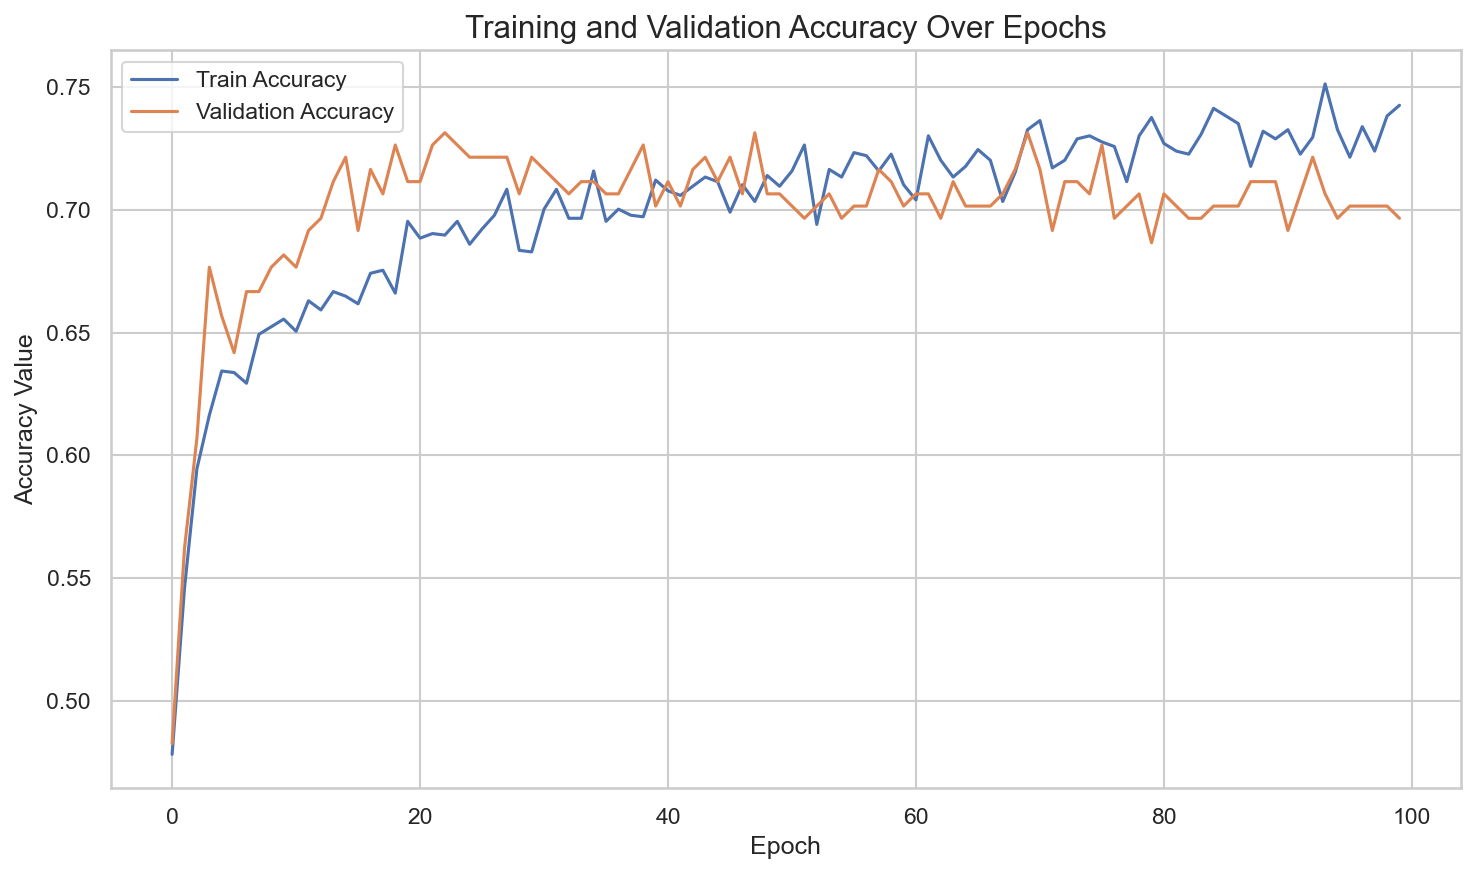
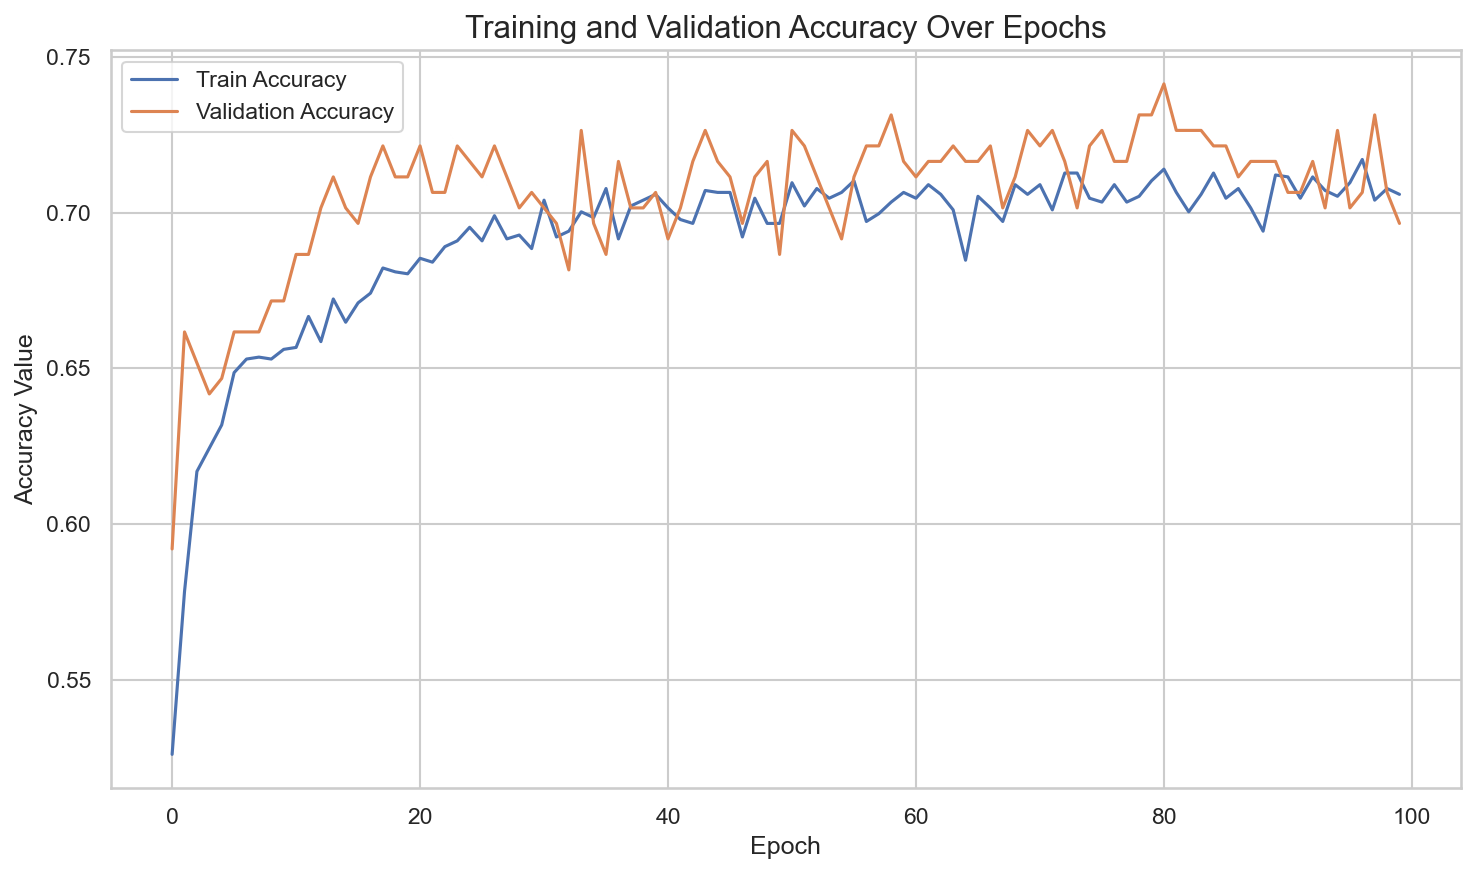
add dynamic creation of hidden dimensions, fine-tune model to improve performance

diff --git a/src/model.py b/src/model.py
@@ -1,33 +1,42 @@
 import torch.nn as nn
-import torch.nn.functional as functional
 import torch.nn.init as init
 
-DATA_FEATURES = 9
 
 class Net(nn.Module):
-    def __init__(self):
+    def __init__(self, input_dim: int, hidden_dims: list[int], dropout: float = 0.1) -> None:
         super().__init__()
-        self.fc1 = nn.Linear(DATA_FEATURES, 64)
-        self.bn1 = nn.BatchNorm1d(64)
-        self.fc2 = nn.Linear(64, 32)
-        self.bn2 = nn.BatchNorm1d(32)
-        self.dropout1 = nn.Dropout(p=0.20)
-        self.fc3 = nn.Linear(32, 1)
+        if not hidden_dims:
+            raise ValueError("hidden_dims must contain at least one layer size")
 
-        init.kaiming_uniform_(self.fc1.weight, nonlinearity='relu')
-        init.kaiming_uniform_(self.fc2.weight, nonlinearity='relu')
-        init.kaiming_uniform_(self.fc3.weight, nonlinearity='linear')
+        layers: list[nn.Module] = []
+        prev_dim = input_dim
+
+        for hidden_dim in hidden_dims:
+            layers.append(nn.Linear(prev_dim, hidden_dim))
+            layers.append(nn.BatchNorm1d(hidden_dim))
+            layers.append(nn.ELU())
+            if dropout > 0:
+                layers.append(nn.Dropout(dropout))
+            prev_dim = hidden_dim
+
+        layers.append(nn.Linear(prev_dim, 1))
+        self.network = nn.Sequential(*layers)
+        self._init_weights()
+
+    def _init_weights(self) -> None:
+        linear_layers = [layer for layer in self.network if isinstance(layer, nn.Linear)]
+        if not linear_layers:
+            return
+
+        for layer in linear_layers[:-1]:
+            init.kaiming_uniform_(layer.weight, nonlinearity="relu")
+            if layer.bias is not None:
+                init.zeros_(layer.bias)
+
+        output_layer = linear_layers[-1]
+        init.kaiming_uniform_(output_layer.weight, nonlinearity="linear")
+        if output_layer.bias is not None:
+            init.zeros_(output_layer.bias)
 
     def forward(self, x):
-        x = self.fc1(x)
-        x = self.bn1(x)
-        x = functional.relu(x)
-        x = self.dropout1(x)
-
-        x = self.fc2(x)
-        x = self.bn2(x)
-        x = functional.relu(x)
-
-        x = self.fc3(x)
-
-        return x
+        return self.network(x)

diff --git a/train.py b/train.py
@@ -20,18 +20,13 @@ from config import (
     TRAIN_SPLIT,
     VAL_SPLIT,
     WEIGHT_DECAY,
+    HIDDEN_DIMS,
+    INPUT_DIM,
+    DROPOUT
 )
 
 def train_model():
     set_seed(SEED)
-    net = Net()
-
-    criterion = nn.BCEWithLogitsLoss()
-    optimizer = optim.AdamW(
-        net.parameters(),
-        lr=LEARNING_RATE,
-        weight_decay=WEIGHT_DECAY,
-    )
 
     dataset = WaterDataset(str(DATA_PATH))
 
@@ -63,6 +58,19 @@ def train_model():
     val_acc = Accuracy(task="binary")
     accuracies = []
     losses = []
+
+    net = Net(
+        input_dim=INPUT_DIM,
+        hidden_dims=HIDDEN_DIMS,
+        dropout=DROPOUT,
+    )
+    
+    criterion = nn.BCEWithLogitsLoss()
+    optimizer = optim.AdamW(
+        net.parameters(),
+        lr=LEARNING_RATE,
+        weight_decay=WEIGHT_DECAY,
+    )
 
     for epoch in range(EPOCH_NUM):
         train_loss = 0.0

diff --git a/evaluate.py b/evaluate.py
@@ -17,6 +17,9 @@ from config import (
     SEED,
     TRAIN_SPLIT,
     VAL_SPLIT,
+    HIDDEN_DIMS,
+    INPUT_DIM,
+    DROPOUT
 )
 
 def evaluate_model():
@@ -52,7 +55,11 @@ def evaluate_model():
         shuffle=False
     )
 
-    net = Net()
+    net = Net(
+        input_dim=INPUT_DIM,
+        hidden_dims=HIDDEN_DIMS,
+        dropout=DROPOUT,
+    )
     model_state = checkpoint["model_state_dict"] if isinstance(checkpoint, dict) and "model_state_dict" in checkpoint else checkpoint
     net.load_state_dict(model_state)
     net.eval()

diff --git a/config.py b/config.py
@@ -17,4 +17,8 @@ VAL_SPLIT = 0.1
 SHOW_PLOTS = False
 
 LEARNING_RATE = 1e-3
-WEIGHT_DECAY = 1e-2
+WEIGHT_DECAY = 1e-3
+
+INPUT_DIM = 9
+HIDDEN_DIMS = [24,12]
+DROPOUT = 0.0

diff --git a/README.md b/README.md
@@ -30,9 +30,9 @@ The project utilizes the **Water Potability** dataset. It contains physicochemic
 
 The model was evaluated using the dedicated test split after selecting the best checkpoint based on validation loss.
 
-| Architecture | Training Strategy | Accuracy | Test Loss | Parameter Scale | Observation |
+| Architecture | Accuracy | Test Loss | Observation |
 |:---|:---|:---:|:---:|:---:|:---|
-| **MLP** | From Scratch | **71.3%** | **0.6157** | Lightweight | Solid baseline for tabular physicochemical data. |
+| **MLP** | **72.28%** | **0.6157** | Solid baseline for tabular physicochemical data. |
 
 ---
 
